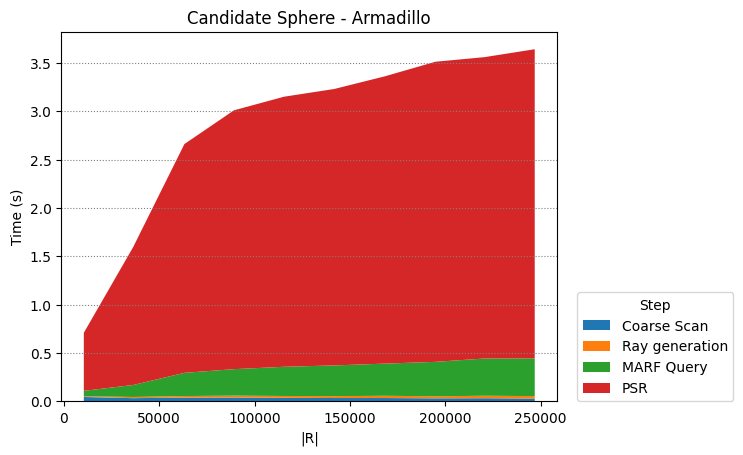
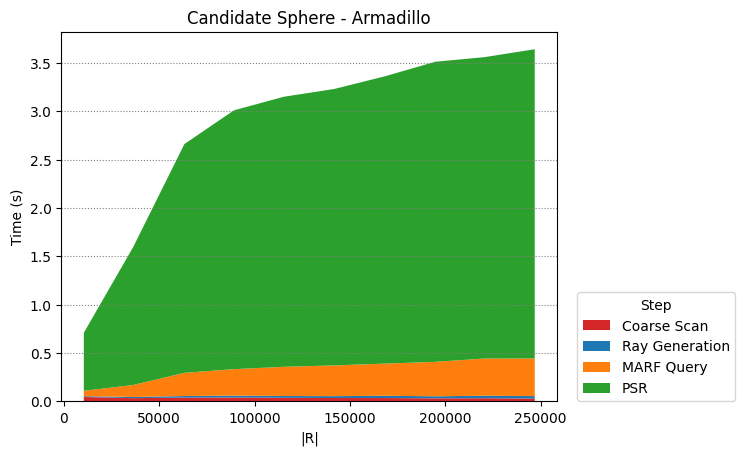
time steps finished

diff --git a/analysis/time_steps.py b/analysis/time_steps.py
@@ -8,6 +8,7 @@ from analysis import ALGORITHM_LIST, OBJECT_NAMES, model_name_dict, model_checkp
 
 import matplotlib
 import matplotlib.pyplot as plt
+from matplotlib.patches import Patch
 matplotlib.use('Agg')
 
 DIR_PATH = 'analysis/data/time_steps/'
@@ -17,6 +18,14 @@ alg_name_dict = {
     'prescan_cone': 'Prescan Cone',
     'candidate_sphere': 'Candidate Sphere',
     'angle_filter': 'Angle Filter'
+}
+
+step_color_dict = {
+    'Ray Generation': 'tab:blue',
+    'MARF Query': 'tab:orange',
+    'PSR': 'tab:green',
+    'Coarse Scan': 'tab:red',
+    'Filter': 'tab:purple',
 }
 
 def compute_values(model_name: CheckpointName, algorithm: type[Algorithm]) -> tuple[list[str], list[int], list[list[float]]]:
@@ -53,8 +62,9 @@ def load_results(model_name: str, algorithm: str) -> tuple[list[str], list[int],
 
 def plot_results(steps: list[str], R_values: list[int], times: list[list[float]], model_name: str, algorithm: str) -> None:
     fig, ax = plt.subplots()
+    colors = [step_color_dict[step] for step in steps]
 
-    ax.stackplot(R_values, times, labels=steps)
+    ax.stackplot(R_values, times, labels=steps, colors=colors)
     
     ax.set_ylabel('Time (s)')
     ax.set_xlabel('|R|')
@@ -64,27 +74,46 @@ def plot_results(steps: list[str], R_values: list[int], times: list[list[float]]
     plt.grid(linestyle='dotted', color='grey', axis='y')
     fig.savefig(f'{DIR_PATH}{algorithm}_{model_name}.png', bbox_inches="tight")
 
+def create_legend() -> None:
+    legend_elements = [Patch(facecolor=color, label=step) for step, color in step_color_dict.items()]
+
+    fig, ax = plt.subplots()
+    ax.axis('off')
+
+    ax.legend(
+        handles=legend_elements,
+        title='Step',
+        loc='center',
+        frameon=True,
+        borderpad=1
+    )
+
+    fig.savefig(f'{DIR_PATH}legend.png', bbox_inches='tight', dpi=300)
+    plt.close(fig)
+
 parser = argparse.ArgumentParser()
 parser.add_argument("-s", "--Save", action='store_true')
 parser.add_argument("-l", "--Load", action='store_true')
+parser.add_argument("-c", "--Colors", action='store_true')
 parser.add_argument("-f", "--Filename", type=str)
 parser.add_argument("-a", "--Algorithm", type=str)
 
 args = parser.parse_args()
 
-if not args.Filename:
-    print('A filename must be specified')
-    exit()
-elif not args.Algorithm:
-    print('An algorithm must be specified')
-    exit()
+if not args.Colors:
+    if not args.Filename:
+        print('A filename must be specified')
+        exit()
+    elif not args.Algorithm:
+        print('An algorithm must be specified')
+        exit()
 
-if args.Filename not in OBJECT_NAMES:
-    print(f'"{args.Filename}" is not a valid key, valid keys are: {", ".join(OBJECT_NAMES)}')
-    exit()
-elif args.Algorithm not in ALGORITHM_LIST:
-    print(f'"{args.Algorithm}" is not a valid key, valid keys are: {", ".join(ALGORITHM_LIST)}')
-    exit()
+    if args.Filename not in OBJECT_NAMES:
+        print(f'"{args.Filename}" is not a valid key, valid keys are: {", ".join(OBJECT_NAMES)}')
+        exit()
+    elif args.Algorithm not in ALGORITHM_LIST:
+        print(f'"{args.Algorithm}" is not a valid key, valid keys are: {", ".join(ALGORITHM_LIST)}')
+        exit()
 
 if args.Load:
     steps, R_values, times = load_results(args.Filename, args.Algorithm)
@@ -93,5 +122,7 @@ elif args.Save:
     steps, R_values, times = compute_values(model_checkpoint_dict[args.Filename], class_dict[args.Algorithm])
     save_results(steps, R_values, times, args.Filename, args.Algorithm)
     plot_results(steps, R_values, times, args.Filename, args.Algorithm)
+elif args.Colors:
+    create_legend()
 else:
     print('Neither "-s" or "-l" specified')

diff --git a/ray_field/candidate_sphere.py b/ray_field/candidate_sphere.py
@@ -218,7 +218,7 @@ class CandidateSphere(Algorithm):
     def time_steps(model_name: CheckpointName, length: int) -> tuple[list[str], list[list[float]], list[int]]:
         model, device = utils.init_model(model_name)
         N_values = CandidateSphere._get_N_values(length)
-        steps = ['Coarse Scan', 'Ray generation', 'MARF Query', 'PSR']
+        steps = ['Coarse Scan', 'Ray Generation', 'MARF Query', 'PSR']
 
         times = np.zeros((len(steps), len(N_values)))
         R_values = np.zeros(len(N_values), dtype=int)

diff --git a/ray_field/prescan_cone.py b/ray_field/prescan_cone.py
@@ -218,7 +218,7 @@ class PrescanCone(Algorithm):
     def time_steps(model_name: CheckpointName, length: int) -> tuple[list[str], list[list[float]], list[int]]:
         model, device = utils.init_model(model_name)
         N_values = PrescanCone._get_N_values(length)
-        steps = ['Coarse Scan', 'Ray generation', 'MARF Query', 'PSR']
+        steps = ['Coarse Scan', 'Ray Generation', 'MARF Query', 'PSR']
 
         times = np.zeros((len(steps), len(N_values)))
         R_values = np.zeros(len(N_values), dtype=int)
